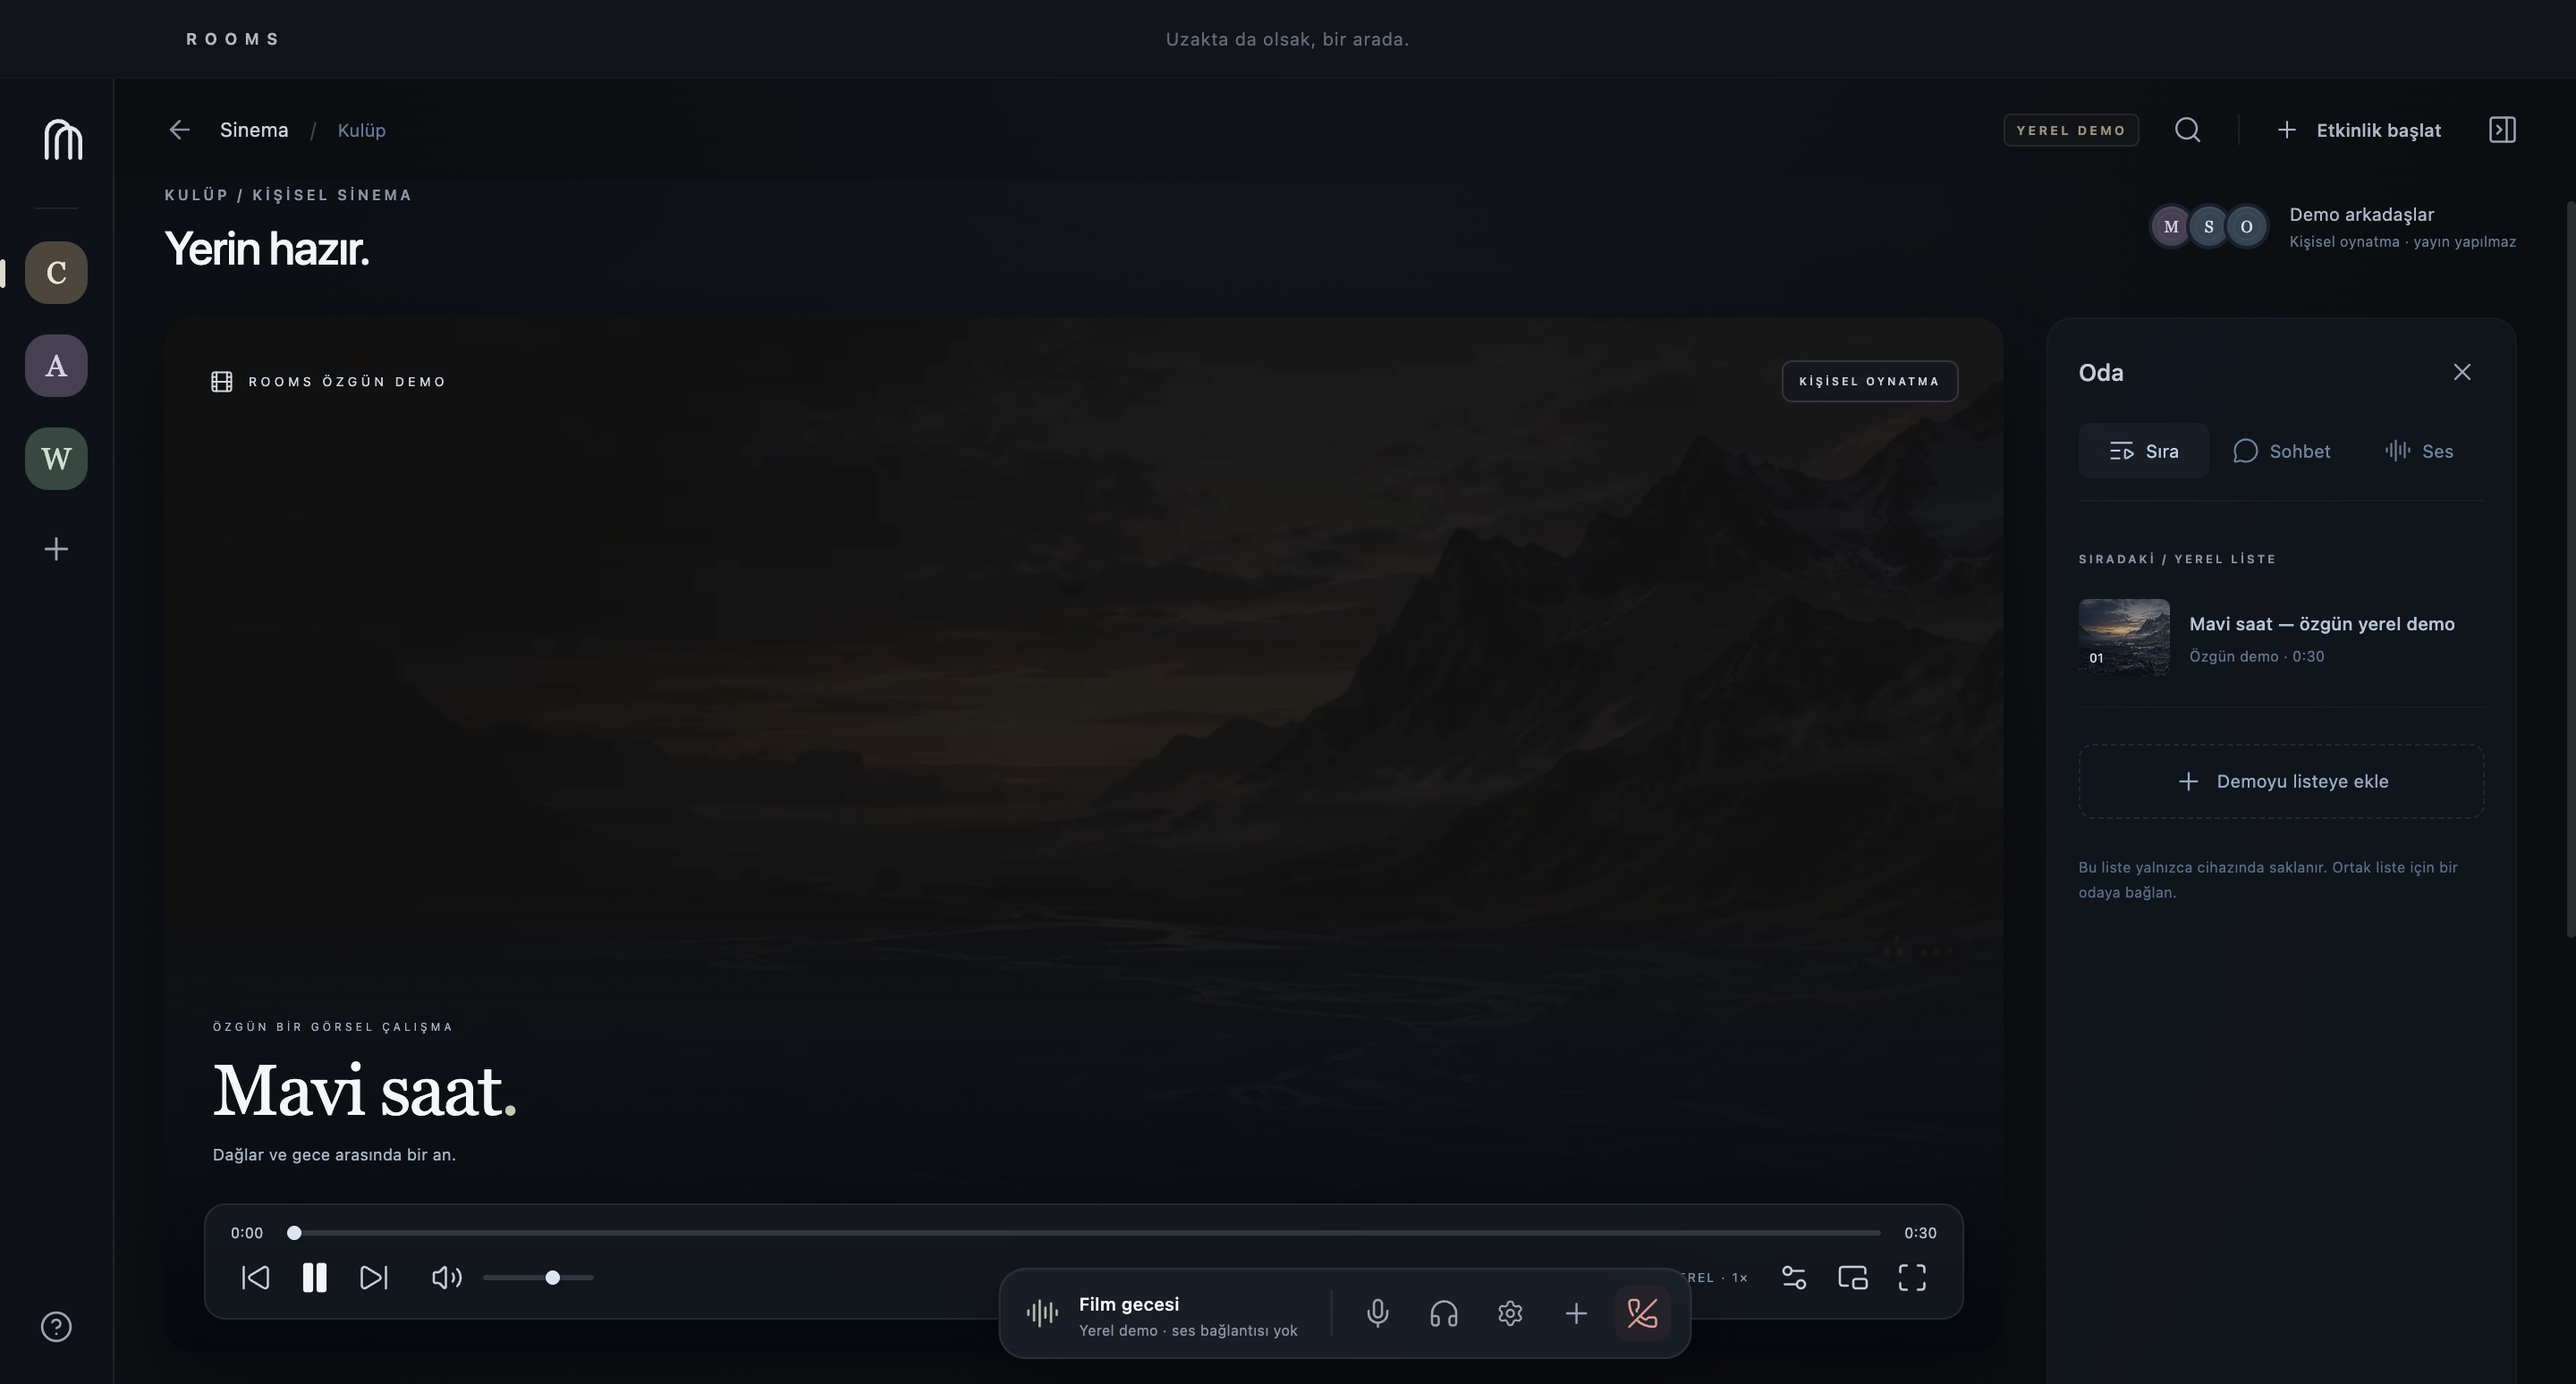
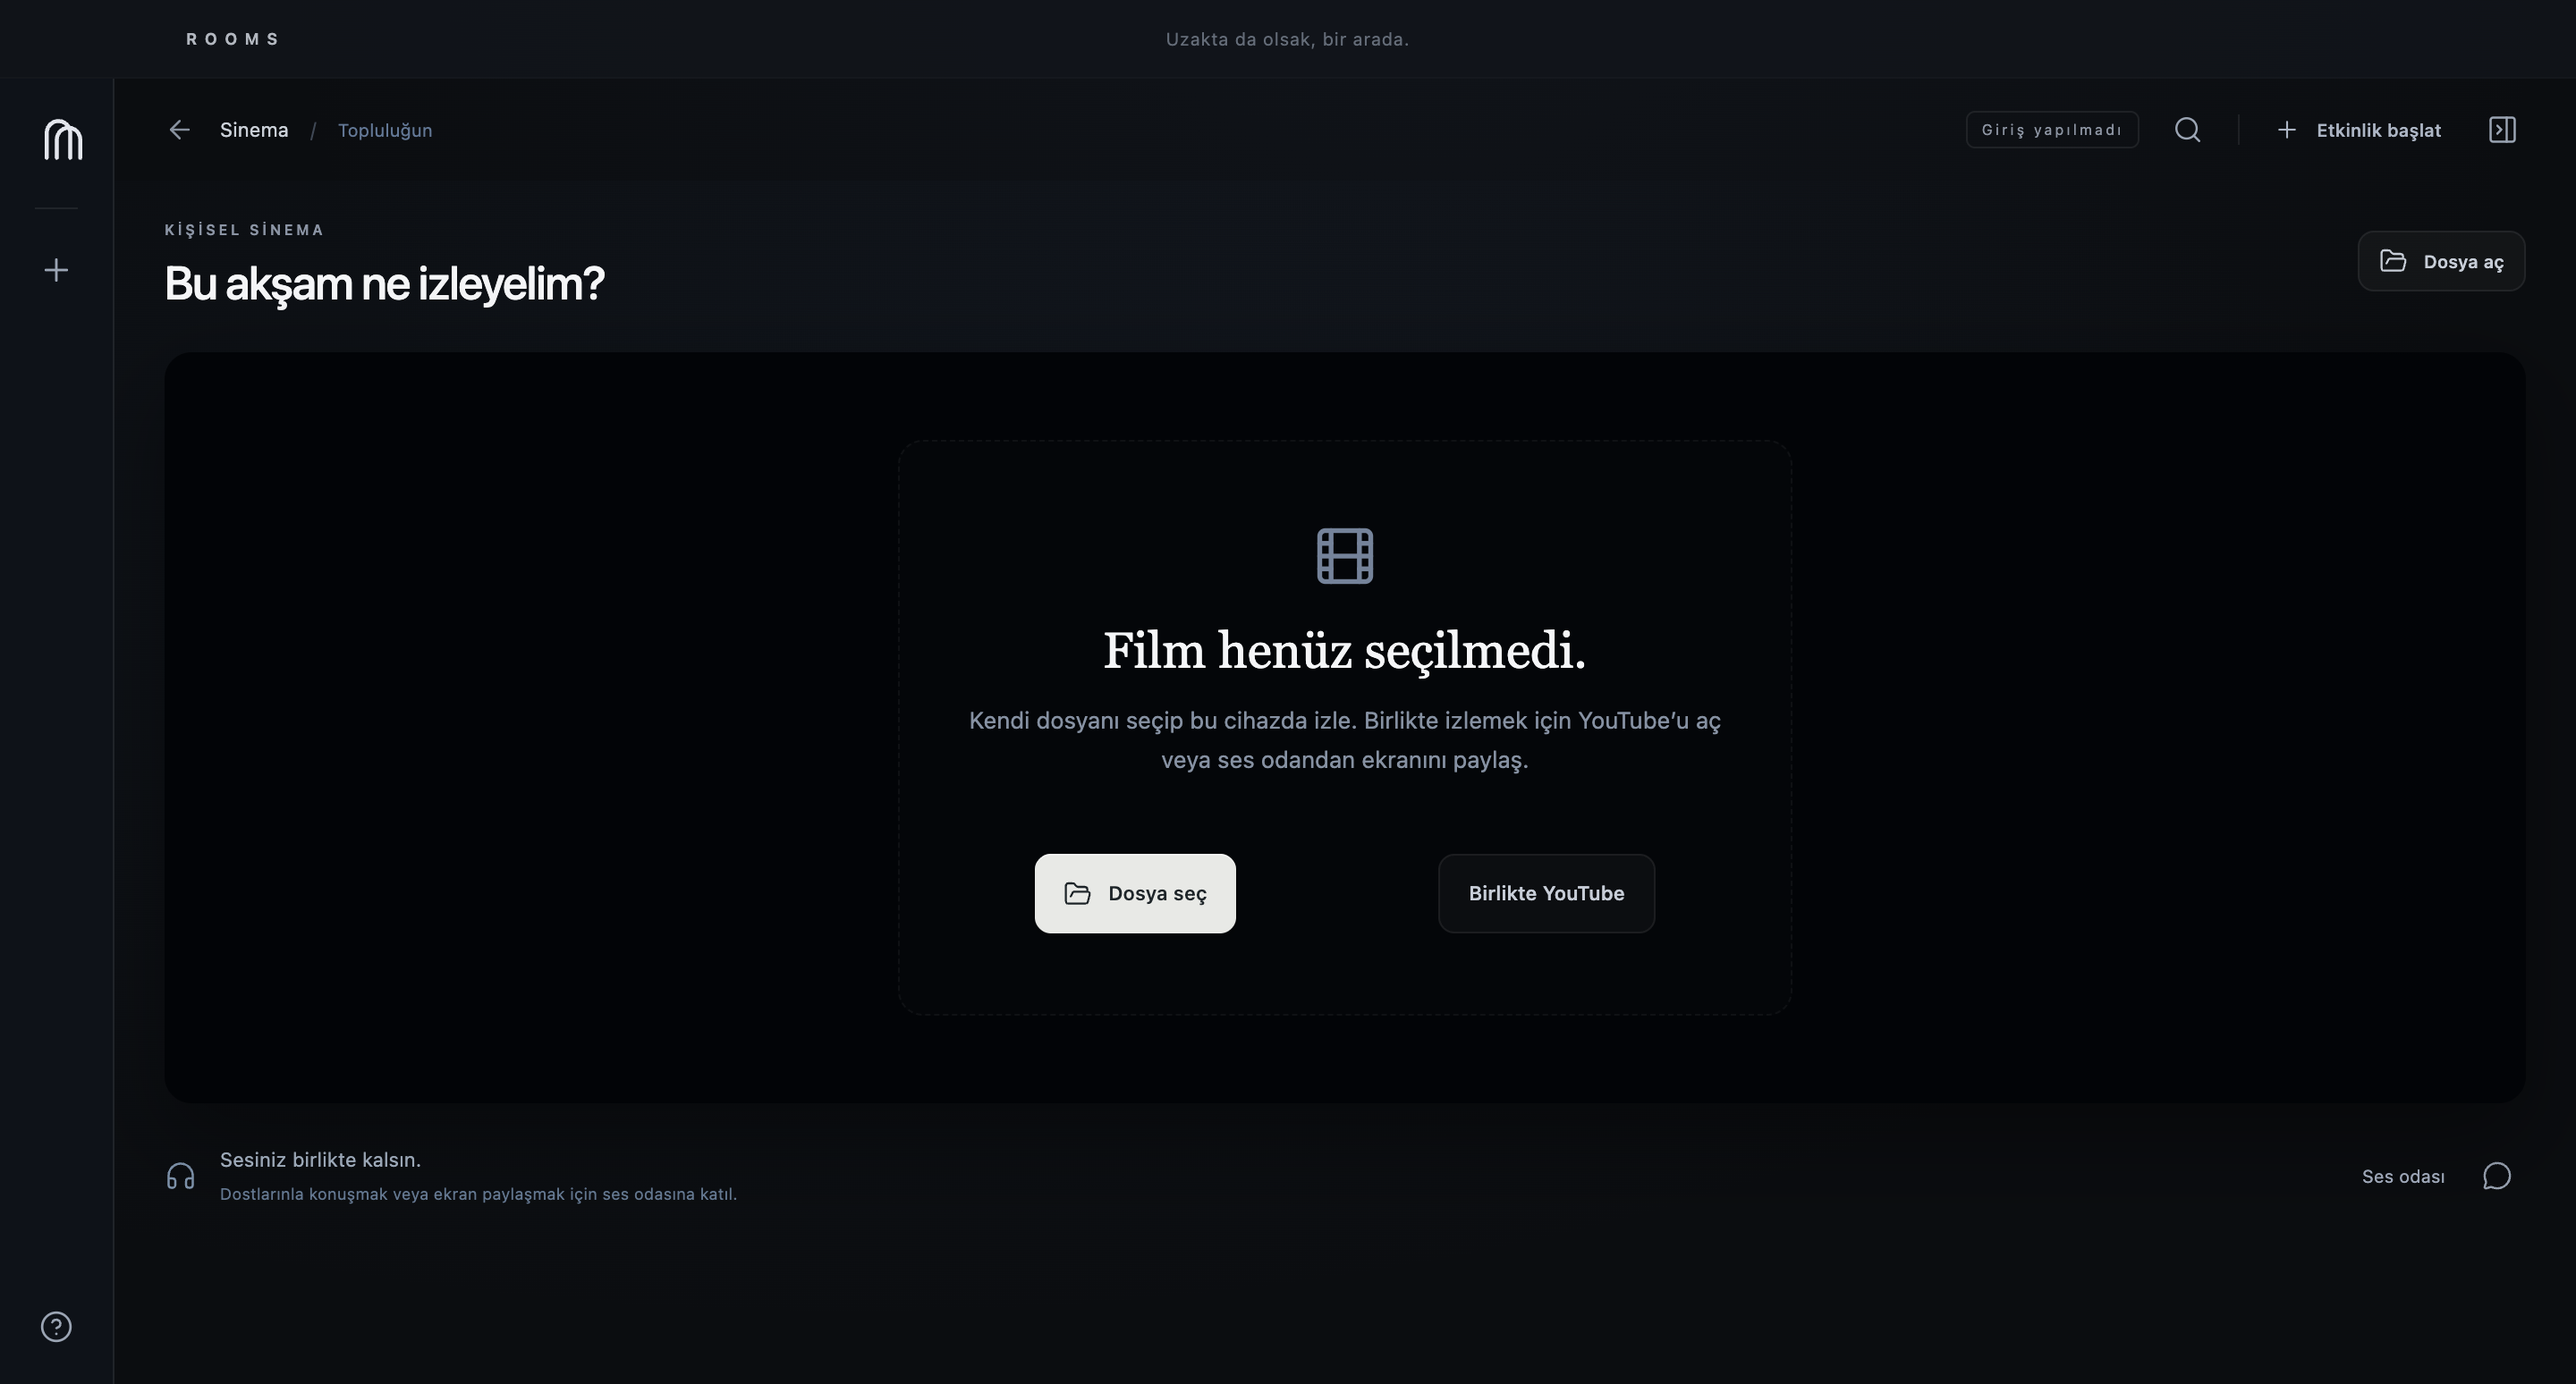
docs(acceptance): preserve evidence before minimal copy revision

diff --git a/tests/desktop/acceptance.spec.ts b/tests/desktop/acceptance.spec.ts
@@ -1,19 +1,20 @@
 import { test, expect, _electron as electron, type ElectronApplication } from '@playwright/test';
-import { readFile } from 'node:fs/promises';
+import { readFile, rm } from 'node:fs/promises';
 import { randomUUID } from 'node:crypto';
 const launch=async()=>{const env:Record<string,string>={...Object.fromEntries(Object.entries(process.env).filter((entry):entry is [string,string]=>typeof entry[1]==='string')),ROOMS_PROFILE:`qa-${randomUUID()}`};delete env.ELECTRON_RUN_AS_NODE;return electron.launch({args:['.'],env});};
-test('desktop shell isolates native APIs and plays actual local media',async()=>{
-  const app=await launch();console.log('Shell launched');try{const page=await app.firstWindow();await page.waitForSelector('.hero');
+test('desktop shell isolates native APIs and shows real sign-in and empty Cinema',async()=>{
+  const app=await launch();const profile=await app.evaluate(({app})=>app.getPath('userData'));
+  try{const page=await app.firstWindow();await page.waitForSelector('.hero');
     expect(await page.evaluate(()=>({node:typeof (window as any).require,platform:(window as any).rooms.platform}))).toEqual({node:'undefined',platform:process.platform});
-    console.log('Bridge isolated');await expect(page.evaluate(()=>(window as any).rooms.windowAction('invalid'))).rejects.toThrow();
-    console.log('Invalid IPC rejected');await page.keyboard.press('Meta+k');await expect(page.getByRole('dialog')).toBeVisible();await page.keyboard.press('Escape');await expect(page.getByRole('dialog')).toHaveCount(0);
-    console.log('Command menu checked');await page.getByRole('button',{name:'Sinemaya gir',exact:true}).click();await page.getByRole('button',{name:'Mavi saati oynat',exact:true}).click();
-    await page.waitForFunction(()=>{const v=document.querySelector('video');return !!v&&!v.paused&&v.currentTime>0;});
-    expect(await page.locator('video').evaluate(v=>(v as HTMLVideoElement).duration)).toBe(30);
-    await page.getByRole('button',{name:'Videoyu duraklat',exact:true}).click();await page.getByRole('slider',{name:'Oynatma konumu',exact:true}).fill('12');expect(await page.locator('video').evaluate(v=>(v as HTMLVideoElement).currentTime)).toBeCloseTo(12,0);
-    console.log('Playback and seek checked');await page.getByRole('button',{name:'Sinemayı tam ekran yap',exact:true}).click();await expect(page.locator('.native-fullscreen')).toBeVisible();await expect.poll(()=>app.evaluate(({BrowserWindow})=>BrowserWindow.getAllWindows()[0].isFullScreen())).toBe(true);await page.getByRole('button',{name:'Tam ekrandan çık',exact:true}).click();await expect(page.locator('.native-fullscreen')).toHaveCount(0);await expect.poll(()=>app.evaluate(({BrowserWindow})=>BrowserWindow.getAllWindows()[0].isFullScreen())).toBe(false);
-    const metrics=await app.evaluate(({app})=>app.getAppMetrics().map(p=>({type:p.type,workingSetKB:p.memory.workingSetSize,cpuPercent:p.cpu.percentCPUUsage})));console.log(JSON.stringify({desktopMetrics:metrics}));
-  }finally{await app.close();}
+    await expect(page.evaluate(()=>(window as any).rooms.windowAction('invalid'))).rejects.toThrow();
+    await expect(page.locator('.social-connection form')).toBeVisible();
+    await page.keyboard.press('Meta+k');await expect(page.getByRole('dialog')).toBeVisible();await page.keyboard.press('Escape');await expect(page.getByRole('dialog')).toHaveCount(0);
+    await page.evaluate(()=>location.hash='/cinema');await expect(page.locator('.cinema-empty')).toBeVisible();await expect(page.locator('video')).toHaveCount(0);
+    await expect(page.getByRole('button',{name:'Dosya seç',exact:true})).toBeEnabled();
+    await page.getByRole('button',{name:'Birlikte YouTube',exact:true}).click();await expect(page.locator('.main-view')).not.toContainText('demo');
+    await page.evaluate(()=>location.hash='/chat');await expect(page.locator('.social-connection form')).toBeVisible();await expect(page.locator('.chat-transcript')).toHaveCount(0);
+    await expect(page.locator('body')).not.toContainText('Maya');
+  }finally{await app.close();await rm(profile,{recursive:true,force:true});}
 });
 test('two real Stoat desktop accounts exchange events and join one authorized room',async()=>{
   test.skip(!process.env.ROOMS_STOAT_DESKTOP_FIXTURES, 'Requires actual Stoat accounts; legacy Spacebar fixtures are not Stoat verification.');
